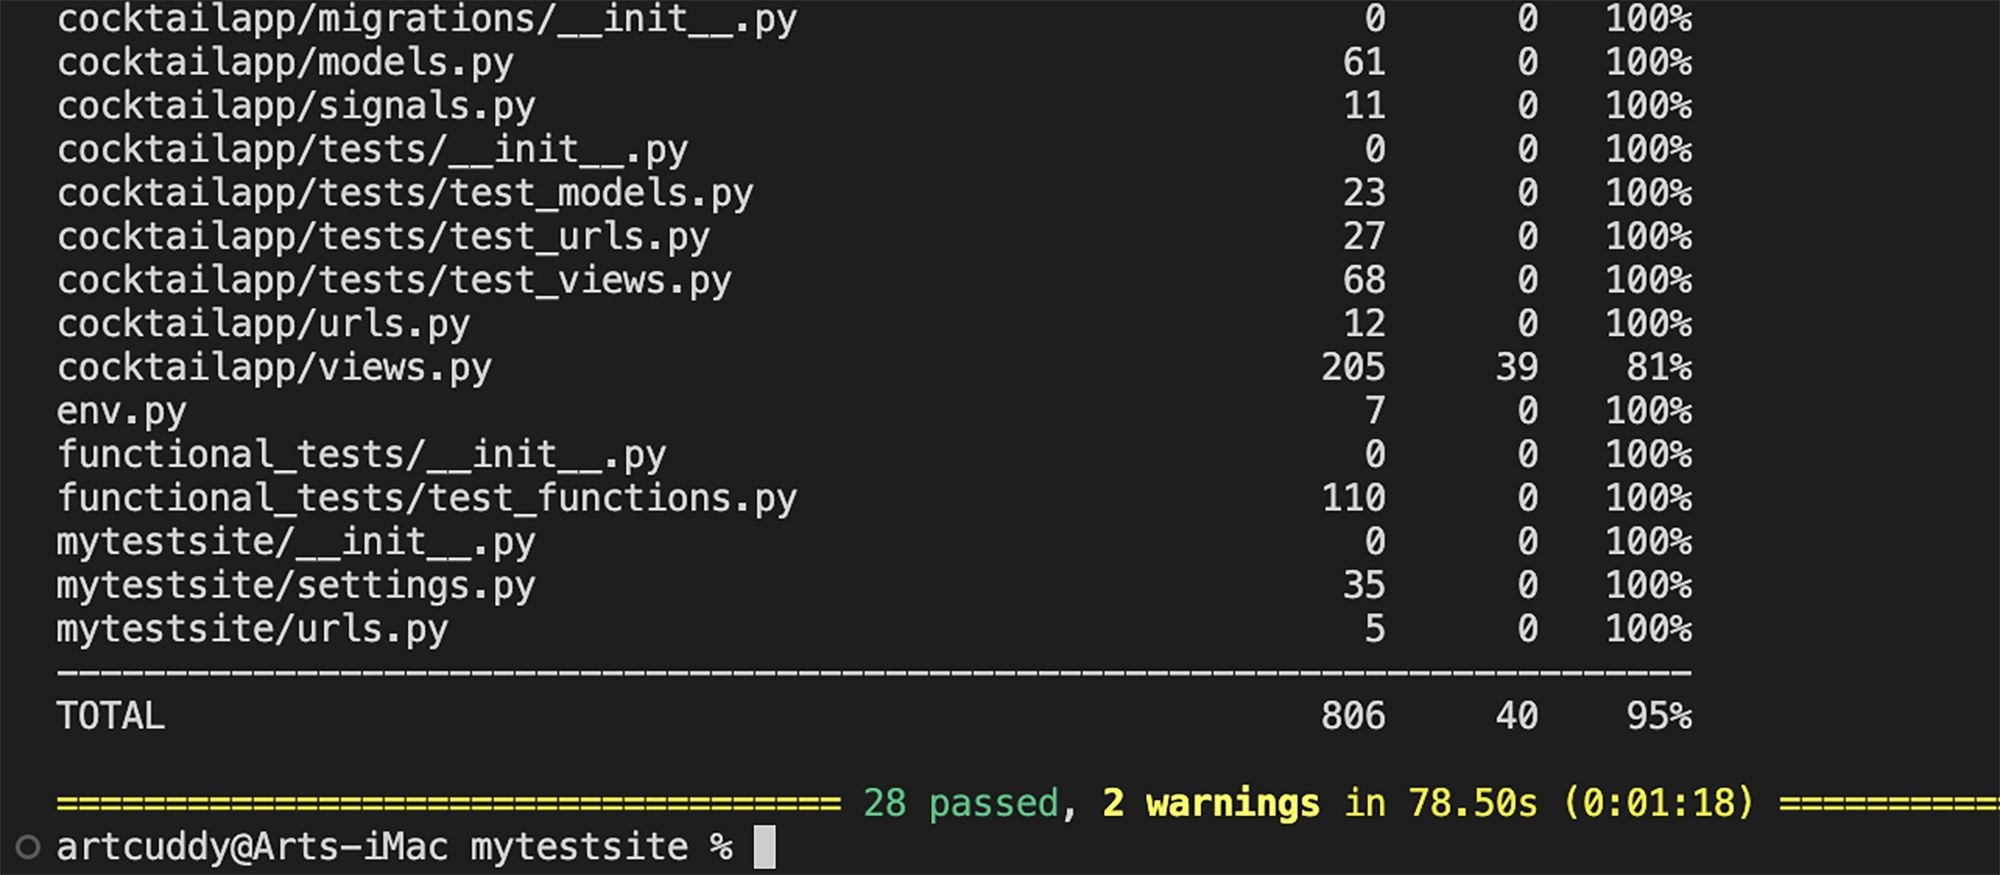
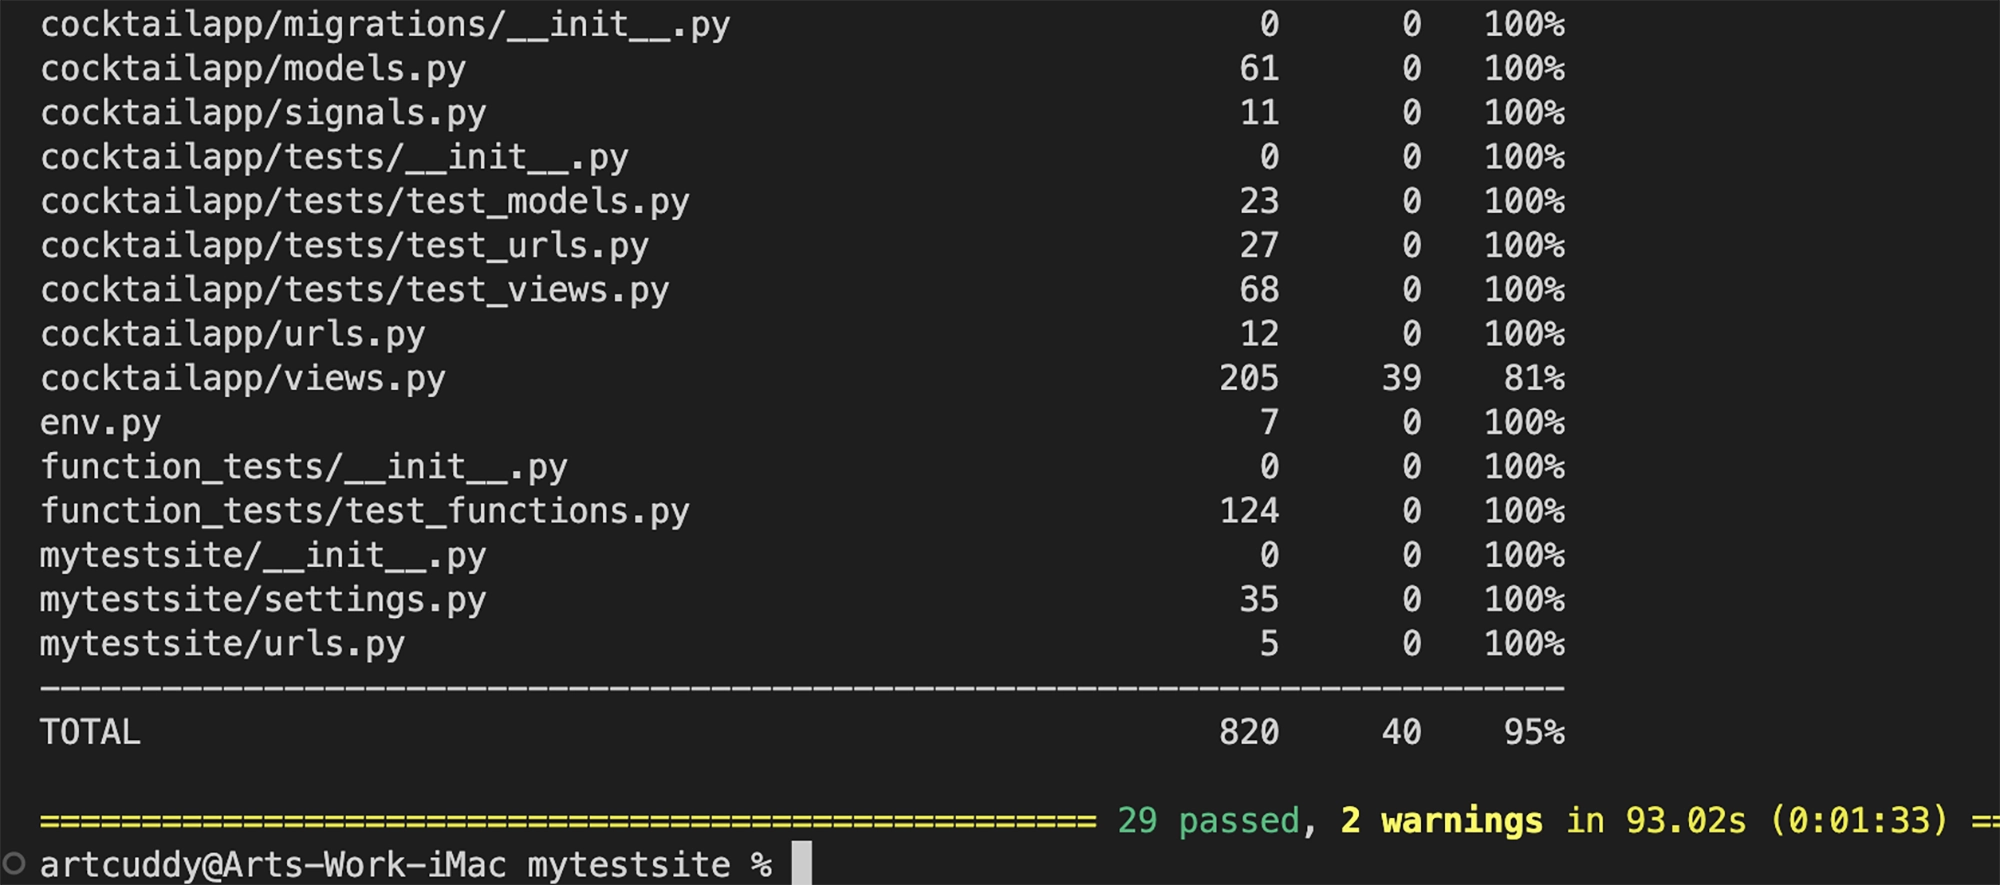
Add: updated the selenium testing video

diff --git a/TESTING.md b/TESTING.md
@@ -54,11 +54,11 @@ The automated Automated Functional Tests were performed with Selenium & Pytest b
 The Username & Passwords were loaded from the seperate env.py file so as not to expose the username & password in the test file on Github.
 This will need to be added should you want to test this in a local development enviroment.
 
-I ran 7 automated functional tests, click the screen recording of the automated tests below to see this in action.... or click this link to view on <a href="https://www.youtube.com/watch?v=jjweHa68lCU">YouTube</a>
+I ran 8 automated functional tests, click the screen recording below to see the automated tests in action or click this link to view on <a href="https://www.youtube.com/watch?v=B7k34CGfiTE">YouTube</a>
 
 
-<a href="http://www.youtube.com/watch?feature=player_embedded&v=jjweHa68lCU
-" target="_blank"><img src="http://img.youtube.com/vi/jjweHa68lCU/0.jpg" 
+<a href="http://www.youtube.com/watch?feature=player_embedded&v=B7k34CGfiTE
+" target="_blank"><img src="http://img.youtube.com/vi/B7k34CGfiTE/0.jpg" 
 alt="automated functional tests" width="300" height="220" border="0" /></a>
 
 
@@ -67,10 +67,11 @@ alt="automated functional tests" width="300" height="220" border="0" /></a>
 | USER STORY                     | TEST CASE                                                                                                 | PASS/FAIL |
 |--------------------------------|-----------------------------------------------------------------------------------------------------------|-----------|
 | User story 001 (Regular User): | As a regular user, I want to view the site navigate to a cocktail and like, rate and comment on the post. |           |
-|                                | Test Case 001-1: Test home page renders for a logged out user                                             | PASS      |
+|                                | Test Case 001-1: Test home page renders for an un-authenticated user                                             | PASS      |
 |                                | Test Case 001-2: Test a logged in regular user can like a post                                            | PASS      |
 |                                | Test Case 001-3: Test a logged in regular user can create a new comment                                   | PASS      |
 |                                | Test Case 001-4: Test a logged in regular user can rate a post                                            | PASS      |
+|                                | Test Case 001-5  Test an un-authenticated user can register an account the site                           | PASS
 |                                |                                                                                                           |           |
 | User story 002 (Super User):   | As a super user, I want to create a new cocktail post, delete a post & create a new category              |           |
 |                                | Test Case 002-1: Test a logged in admin user can create a new post                                        | PASS      |
@@ -122,6 +123,7 @@ class Hosttest(LiveServerTestCase):
 
     def site_admin_login(self):
         self.visit('/account/login/')
+        self.driver.set_window_size(1578, 1297)
 
         time.sleep(2)
 
@@ -132,6 +134,7 @@ class Hosttest(LiveServerTestCase):
 
     def site_reguser_login(self):
         self.visit('/account/login/')
+        self.driver.set_window_size(1578, 1297)
 
         time.sleep(2)
 
@@ -143,11 +146,32 @@ class Hosttest(LiveServerTestCase):
     # Test Case 001-1 home page renders for a logged out user
     def test_001_1_logged_out_homepage(self):
         self.visit('/')
+        self.driver.set_window_size(1578, 1297)
         time.sleep(2)
         expected = "Cocktail Nerd"
         assert self.driver.title == expected
 
-    
+    # Test Case 001-5 unauthenticated user can register on the site
+    def test_001_5_site_reguser_login(self):
+        self.visit('/account/signup/')
+        self.driver.set_window_size(1578, 1297)
+
+        time.sleep(2)
+
+        self.driver.find_element(By.ID, 'id_username').send_keys('testuser1')
+        time.sleep(2)
+        self.driver.find_element(By.ID, 'id_password1').send_keys('TestPassw0rd')
+        time.sleep(2)
+        self.driver.find_element(By.ID, 'id_password2').send_keys('TestPassw0rd')
+        time.sleep(2)
+        self.driver.find_element(By.ID, 'nerd-sign-up').click()
+
+        time.sleep(2)
+
+        expected = self.driver.find_element(By.CLASS_NAME, 'success').text
+
+        assert expected == 'Successfully signed in as testuser1.'
+
     # Test Case 002-1 a logged in admin user can create a new post
     def test_002_1_user_create_post(self):
         self.site_admin_login()
@@ -182,11 +206,11 @@ class Hosttest(LiveServerTestCase):
         expected = "https://project4-cocktail-nerd.herokuapp.com/add_post/?submitted=True"
         assert self.driver.current_url == expected
 
-
     # Test Case 002-2 a logged in admin user can create a new category
     def test_002_2_user_create_category(self):
         self.site_admin_login()
         self.visit('/add_category/')
+        self.driver.set_window_size(1578, 1297)
 
         time.sleep(2)
 
@@ -219,7 +243,6 @@ class Hosttest(LiveServerTestCase):
 
         assert like_count != 0
 
-
     # Test Case 001-3 a logged in regular user can create a new comment
     def test_001_3_user_can_comment(self):
         self.site_reguser_login()
@@ -243,7 +266,6 @@ class Hosttest(LiveServerTestCase):
 
         assert expected == 'Nice one Reguser your comment is awaiting approval...'
 
-
     # Test Case 001-4 a logged in regular user can rate a post
     def test_001_4_user_can_rate_post(self):
         self.site_reguser_login()
@@ -262,7 +284,6 @@ class Hosttest(LiveServerTestCase):
         score = self.driver.find_element(By.XPATH, "/html//div[@class='container mt-4 px-4']/div[@class='row']//article//div[@class='star-ratings']//ul[@class='star-ratings-rating-foreground']/li[3]/form[@action='/ratings/13/85/']/input[@name='score']")
 
         assert score != 0
-
 
     # Test Case 002-3 a logged in admin user can delete a post
     def test_002_3_user_delete_post(self):
@@ -283,7 +304,6 @@ class Hosttest(LiveServerTestCase):
         
         expected = "Cocktail Nerd | Manage Posts"
         assert self.driver.title == expected
-
 
 ```
 </details>
